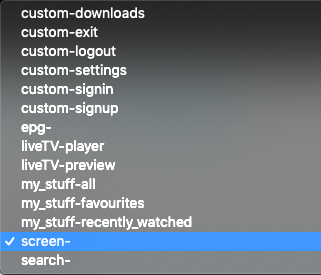
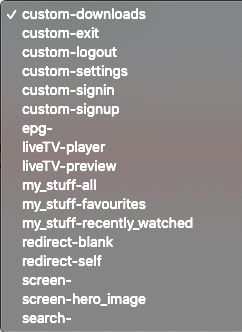
Adding info on screen-hero_image

diff --git a/_site/using-brightcove-beacon/introducing-pages.html b/_site/using-brightcove-beacon/introducing-pages.html
@@ -503,7 +503,6 @@ function doGTranslate(lang_pair) {if(lang_pair.value)lang_pair=lang_pair.value;i
                         </div>
                     </li>
                 </ul>
-                </>
             <li>Screen</li>
             <ul>
                 <li>A page that holds your video content, in carousels, lists, etc.</li>
@@ -517,6 +516,19 @@ function doGTranslate(lang_pair) {if(lang_pair.value)lang_pair=lang_pair.value;i
                         <div class="column">
                             <figure class="bcls-figure">
                                 <img class="bcls-image" src="/assets/images/using-bcb/introducing-pages/beacon-layout-title-out.png" alt="featured videos">
+                            </figure>
+                        </div>
+                    </div>
+                </li>
+            </ul>
+            <li>screen-hero_image</li>
+            <ul>
+                <li>A special type of screen page, but permits an image behind the video content.</li>
+                <li>The "hero" area at the top of the screen is meant to be non-covered and not configurable:
+                    <div class="row">
+                        <div class="column">
+                            <figure class="bcls-figure">
+                                <img class="bcls-image" src="/assets/images/using-bcb/introducing-pages/hero-image.png" alt="featured videos">
                             </figure>
                         </div>
                     </div>

diff --git a/using-brightcove-beacon/introducing-pages.html b/using-brightcove-beacon/introducing-pages.html
@@ -36,7 +36,6 @@ parent: Using Brightcove Beacon
                         </div>
                     </li>
                 </ul>
-                </>
             <li>Screen</li>
             <ul>
                 <li>A page that holds your video content, in carousels, lists, etc.</li>
@@ -50,6 +49,19 @@ parent: Using Brightcove Beacon
                         <div class="column">
                             <figure class="bcls-figure">
                                 <img class="bcls-image" src="/assets/images/using-bcb/introducing-pages/beacon-layout-title-out.png" alt="featured videos">
+                            </figure>
+                        </div>
+                    </div>
+                </li>
+            </ul>
+            <li>screen-hero_image</li>
+            <ul>
+                <li>A special type of screen page, but permits an image behind the video content.</li>
+                <li>The "hero" area at the top of the screen is meant to be non-covered and not configurable:
+                    <div class="row">
+                        <div class="column">
+                            <figure class="bcls-figure">
+                                <img class="bcls-image" src="/assets/images/using-bcb/introducing-pages/hero-image.png" alt="featured videos">
                             </figure>
                         </div>
                     </div>

diff --git a/_site/media/how-search-videos-and-playlists-media-module.html b/_site/media/how-search-videos-and-playlists-media-module.html
@@ -931,7 +931,7 @@ function doGTranslate(lang_pair) {if(lang_pair.value)lang_pair=lang_pair.value;i
 
 <hr>
 <div class="last-updated">
-  Page last updated on 28 Sep 2020
+  Page last updated on 30 Sep 2020
 </div>
 
 
